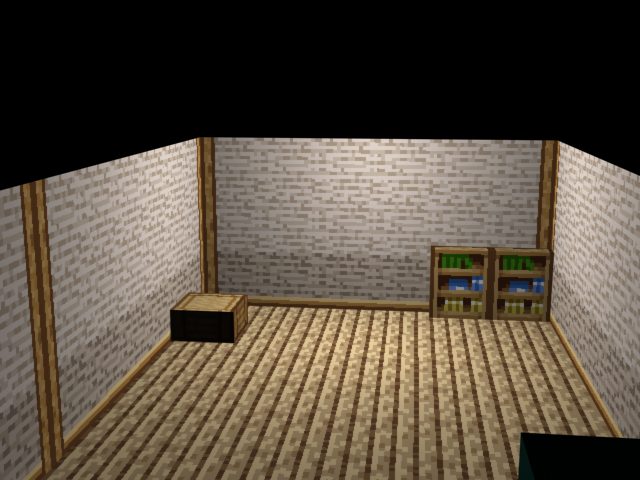
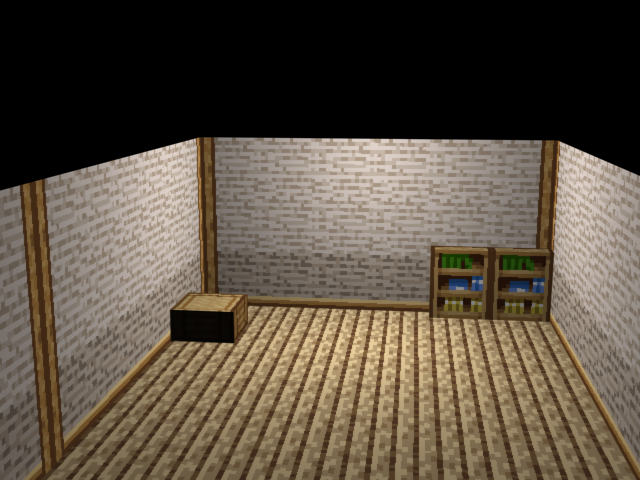
Stated to move foregrounds directly to Camera class

Changed region(s): [[0.8125, 0.875, 1.0, 1.0]]

diff --git a/init.rb b/init.rb
@@ -16,7 +16,7 @@ require_relative 'source/camera.rb'
 require_relative 'source/character.rb'
 
 class Window < Gosu::Window
-  attr_reader :keys, :camera
+  attr_reader :keys, :camera, :character
   def initialize
     super(640, 480, false)
     self.caption = 'Resident Evil Style'
@@ -45,10 +45,6 @@ class Window < Gosu::Window
     @character.button_up(id)
   end
 
-  def update
-    @character.update
-  end
-
   def allow_position?(position)
     x, y, z = position
     true unless x < 24 or x > 104 or y > 232 or (x > 72 and y > 216) or (x == 24 and y == 216)
@@ -59,21 +55,15 @@ class Window < Gosu::Window
     glEnable(GL_TEXTURE_2D)
   end
 
+  def update
+    @character.update
+  end
+
   def draw
-    gl(@character.coords[1]) do
-      opengl_init
-      @camera.look
-      @character.draw
-    end
     @camera.draw
-
-    @fg ||= Gosu::Image.new("gfx/foregrounds/test.png", retro: true)
-    scale_x = self.width / @fg.width.to_f
-    scale_y = self.height / @fg.height.to_f
-    @fg.draw(0, 0, @character.coords[1] + 1, scale_x, scale_y) if @character.coords[1] > 216
-
+    @character.draw
     @font ||= Gosu::Font.new(24)
-    # @font.draw_text(@character.coords.inspect + " -> " + @character.target.inspect, 10, 10, 1000)
+    @font.draw_text(@character.coords.inspect + " -> " + @character.target.inspect, 10, 10, 1000)
   end
 end
 

diff --git a/source/camera.rb b/source/camera.rb
@@ -2,7 +2,11 @@ class Camera
   def initialize(window, json_filename)
     @window = window
     @infos = JSON.parse(File.read("cameras/" + json_filename))
-    @background = Gosu::Image.new("gfx/backgrounds/" + @infos["image"], retro: true)
+    @background = Gosu::Image.new("gfx/backgrounds/" + @infos["background"], retro: true)
+    @foregrounds = Array.new
+    @infos["foregrounds"].each do |filename, z_order|
+      @foregrounds.push [Gosu::Image.new("gfx/foregrounds/" + filename, retro: true), z_order]
+    end
   end
 
   def get_angles
@@ -29,5 +33,12 @@ class Camera
     scale_x = @window.width / @background.width.to_f
     scale_y = @window.height / @background.height.to_f
     @background.draw(0, 0, 0, scale_x, scale_y)
+
+    @foregrounds.each do |foreground|
+      gosu_image, z = foreground
+      if @window.character.coords[1] > z
+        gosu_image.draw(0, 0, @window.character.coords[1] + 1, scale_x, scale_y)
+      end
+    end
   end
 end

diff --git a/source/character.rb b/source/character.rb
@@ -11,7 +11,7 @@ class Character
     @frame_tick = nil
     @frame_duration = 150
     @left_foot = false
-    @velocity = 0.95
+    @velocity = 0.75
     @target = nil
     @keys = @window.keys
     @keystates = Hash.new
@@ -108,6 +108,14 @@ class Character
   end
 
   def draw
+    @window.gl(@coords[1]) do
+      @window.opengl_init
+      @window.camera.look
+      draw_sprite
+    end
+  end
+
+  def draw_sprite
     angles = @window.camera.get_angles
     glPushMatrix
       glTranslatef(*@coords)    
